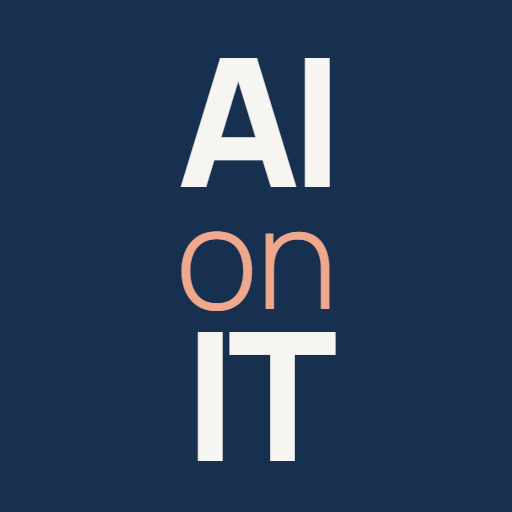
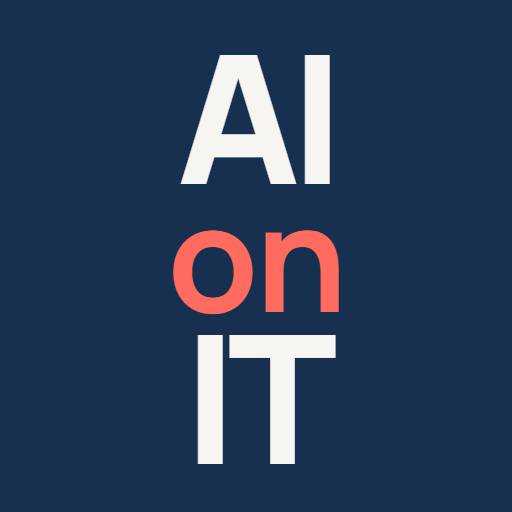
로고: 가운데 on 을 굵은 빨강으로 (시안 D)
- on 을 Manrope 700 · 0.82em 으로 (전에는 300 · 0.78em)
- 로고 전용 색 토큰 --logo-on: 밝은 #D62828 · 어두운 #FF5A4E · 남색 바탕(정사각 마크) #FF6B5E
- 다른 강조는 그대로 Signal(벽돌색)
- Manrope 300 대신 700 을 불러온다
- 앱 아이콘 · 파비콘을 새 모양으로 다시 만듦 (make-icons.mjs)
- docs/디자인시스템.md 3.1 고침

diff --git a/packages/ui/src/Wordmark.tsx b/packages/ui/src/Wordmark.tsx
@@ -1,8 +1,8 @@
-// 워드마크 "AIonIT": 굵은 AI · IT 사이에 가늘고 작은 on (Signal 색). 글자만, 심볼 없음 (docs/디자인시스템.md 3장)
+// 워드마크 "AIonIT": 굵은 AI · IT 사이에 조금 작고 굵은 빨간 on (로고 전용 색 --logo-on). 글자만, 심볼 없음 (docs/디자인시스템.md 3장)
 // 서체 Manrope 는 로고 전용이다. 본문에는 쓰지 않는다.
 
 const base = "font-logo font-extrabold tracking-[-0.045em]";
-const on = "mx-[0.03em] text-[0.78em] font-light tracking-[-0.01em] text-signal";
+const on = "mx-[0.03em] text-[0.82em] font-bold tracking-[-0.02em] text-logo-on";
 
 /** 가로 워드마크. `korean` 이면 가는 세로선 뒤에 "아이오닛" 을 붙인다 (머리글에서는 떼고 쓴다). */
 export function Wordmark({ className = "", korean = false }: { className?: string; korean?: boolean }) {
@@ -78,7 +78,7 @@ export function SquareMark({ size = 48, className = "" }: { size?: number; class
       <span aria-hidden="true">AI</span>
       {small ? null : (
         <>
-          <span aria-hidden="true" className="text-[0.78em] font-light tracking-[-0.01em] text-[#F0A88C]">
+          <span aria-hidden="true" className="text-[0.82em] font-bold tracking-[-0.02em] text-[#FF6B5E]">
             on
           </span>
           <span aria-hidden="true">IT</span>

diff --git a/packages/ui/src/tokens.css b/packages/ui/src/tokens.css
@@ -12,6 +12,8 @@
   --color-on-primary: var(--on-primary);
   --color-link: var(--link);
   --color-signal: var(--signal);
+  /* 로고의 on 전용 빨강. 다른 강조에는 Signal 을 쓴다 (디자인시스템 3.1) */
+  --color-logo-on: var(--logo-on);
   --color-done: var(--done);
   --color-warn: var(--warn);
   --color-danger: var(--danger);
@@ -40,6 +42,7 @@
   --on-primary: #f6f5f1;
   --link: #18304f;
   --signal: #b4492d;
+  --logo-on: #d62828;
   --done: #2e6b4a;
   --warn: #8a5a00;
   --danger: #a3302b;
@@ -63,6 +66,7 @@
     --on-primary: #0e131b;
     --link: #9db7e8;
     --signal: #e07a5b;
+    --logo-on: #ff5a4e;
     --done: #6fbf8e;
     --warn: #e3b341;
     --danger: #f08a84;
@@ -86,6 +90,7 @@
   --on-primary: #0e131b;
   --link: #9db7e8;
   --signal: #e07a5b;
+  --logo-on: #ff5a4e;
   --done: #6fbf8e;
   --warn: #e3b341;
   --danger: #f08a84;

diff --git a/apps/web/src/app/layout.tsx b/apps/web/src/app/layout.tsx
@@ -9,7 +9,7 @@ import "@fontsource/ibm-plex-sans-kr/700.css";
 import "@fontsource/ibm-plex-mono/400.css";
 import "@fontsource/ibm-plex-mono/500.css";
 // 로고 전용 (Wordmark)
-import "@fontsource/manrope/300.css";
+import "@fontsource/manrope/700.css";
 import "@fontsource/manrope/800.css";
 import "./globals.css";
 import "./reader.css";

diff --git a/docs/디자인시스템.md b/docs/디자인시스템.md
@@ -91,8 +91,10 @@
 
 ### 3.1 워드마크 "AIonIT"
 
-- 글자만, 심볼 없음. **Manrope 800** 으로 `AI` 와 `IT`, 그 사이에 **Manrope 300 · 0.78em · Signal 색** 으로 소문자 `on`. 자간 −4.5%, 기준선 맞춤. 이름이 곧 문장 — "IT 의 바탕 위에 AI 를 켠다".
-- 색: 종이 · 흰 바탕에는 Ink + Signal(`#B4492D`). 남색 바탕에는 Paper + `#F0A88C`. 다크 모드에는 Ink(밝은) + `#E07A5B`. 단색(인쇄 · 팩스)이 필요하면 `on` 도 같은 색.
+- 글자만, 심볼 없음. **Manrope 800** 으로 `AI` 와 `IT`, 그 사이에 **Manrope 700 · 0.82em · 빨강(`--logo-on`)** 으로 소문자 `on`. 자간 −4.5%, 기준선 맞춤. 이름이 곧 문장 — "IT 의 바탕 위에 AI 를 켠다".
+- 색: 종이 · 흰 바탕에는 Ink + `#D62828`. 남색 바탕에는 Paper + `#FF6B5E`. 다크 모드에는 Ink(밝은) + `#FF5A4E`. 단색(인쇄 · 팩스)이 필요하면 `on` 도 같은 색.
+  - 이 빨강은 **로고의 `on` 에만** 쓴다 (토큰 `--logo-on`). 링크 · 강조 · 그림의 포인트는 그대로 Signal(벽돌색).
+  - 2026-11-05: 가늘고 작은 Signal 색 `on`(300 · 0.78em) 에서 굵은 빨강으로 바꿨다. 머리글 크기에서 `on` 이 흐려 보여서.
 - 한 벌
   - **가로**: 머리글 · 문서 머리 · 이메일 서명. 뒤에 가는 세로선(1px, 35%) 과 `아이오닛`(Plex 500 · 0.3em · 자간 +24%) 을 붙일 수 있다 (`<Wordmark korean />`). 머리글에서는 뗀다.
   - **세로**: 첫 화면 · 영상 끝 화면 · 명함. `아이오닛` 을 아래에 (`WordmarkStacked`).
